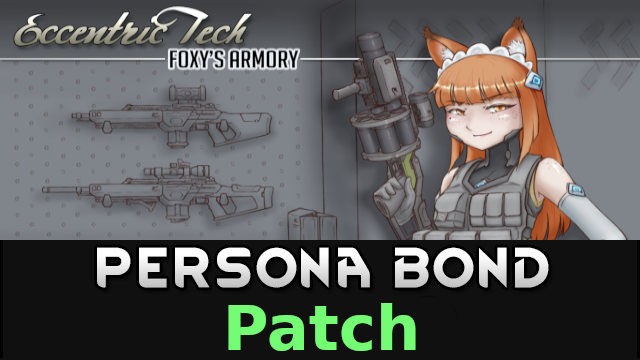
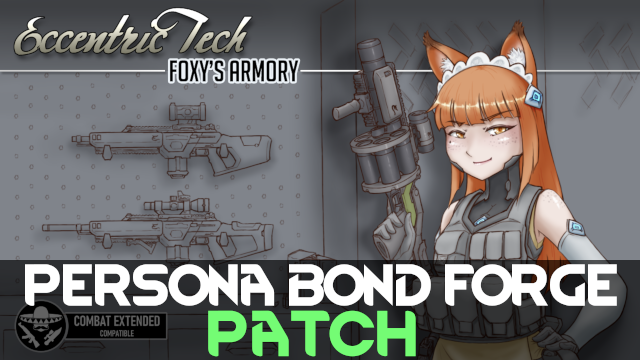
Update Preview.png and README.md

diff --git a/README.md b/README.md
@@ -2,6 +2,14 @@
 
 ![](https://github.com/Daria40K/Persona-Bond-Patch-for-ET-Foxys-Armory-2/blob/main/About/Preview.png)
 
+## Required Mods
+- [Persona Bond Forge](https://steamcommunity.com/workshop/filedetails/?id=2178003816) (Steam)
+- [Eccentric Tech - Foxy's Armory 2.0](https://steamcommunity.com/sharedfiles/filedetails/?id=2552628608) (Steam)
+
+## Download
+- [Steam](https://steamcommunity.com/sharedfiles/filedetails/?id=2760882607)
+- [GitHub](https://github.com/Daria40K/Persona-Bond-Patch-for-ET-Foxys-Armory-2/releases)
+
 ## Weapons Patch
 - M3 Rosethorn
 - S8 charge pistol
